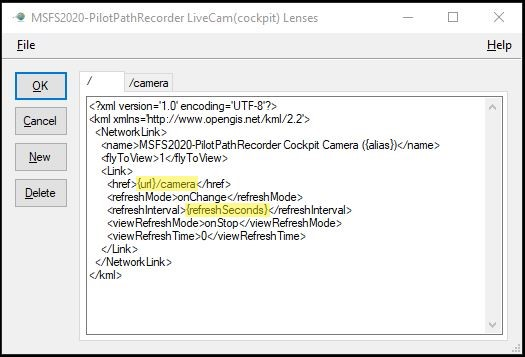
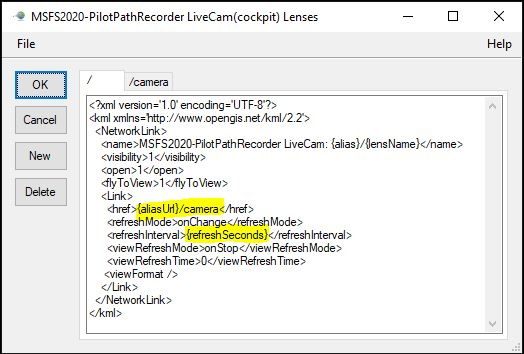
Updated parameter name on 'cockpit' LiveCam

diff --git a/README-kmlcam.md b/README-kmlcam.md
@@ -2,11 +2,12 @@
 
 ## Description
 
-A metaphor of a "Live Camera" (LiveCam) is used to describe a feature enabling real-time display
+A metaphor of a "Live Camera" (aka LiveCam) is used to describe a feature enabling real-time display
 in Google Earth of a simulated flight.  Read below for details about this feature.
 
 You can configure a [KML Network Link] to periodically "call back" to MSFS2020-PilotPathRecorder in order
-to synchronize Google Earth's view with the simulator's view, in "real-time", using a [KML Camera].
+to synchronize Google Earth's view with the simulator's view, in "real-time", using a [KML Camera]
+or other KML markup.
 
 In addition to using and/or extending the built-in LiveCams, it's possible to create your own using a
 specialized, provided editor to define "Lens" (another metaphor) templates used to periodically generate
@@ -37,18 +38,19 @@ located just to the right of the check box.
 
 #### Anatomy of a Network Link URL
 
-The following notations are used to reference the various URLs associated with LiveCams:
+The following notations are used to reference the various types of URLs associated with
+LiveCams:
 
-- _\{listenerUrl\}_ - the base URL endpoint exposed by the internal web server
-  - the default is `http://localhost:8000`, but can be changed in the dialog, if needed
-- _\{liveCamUrl\}_ - the same as _\{listenerUrl\}_`/kmlcam`
-- _\{aliasUrl\}_ - the same as _\{liveCamUrl\}_`/`_\{alias\}_
-- _\{lensUrl\}_ - the same as _\{aliasUrl\}_`/`_\{lens\}_
-- _\{query\}_ - the set of URL "query" parameters associated with any of the above 
+- ***\{listenerUrl\}*** - the base URL endpoint exposed by the internal web server
+  - the default is **`http://localhost:8000`**, but can be changed in the dialog, if needed
+- ***\{liveCamUrl\}*** - the same as ***\{listenerUrl\}*****`/kmlcam`**
+- ***\{aliasUrl\}*** - the same as ***\{liveCamUrl\}*****`/`*****\{alias\}***
+- ***\{lensUrl\}*** - the same as ***\{aliasUrl\}*****`/`*****\{lens\}***
+- ***\{query\}*** - the set of URL "query" parameters associated with any of the above 
 
 Where:
-- _\{alias\}_ is the name of the LiveCam; if not specified, it's the empty string (i.e., "")
-- _\{lens\}_ names a specific KML generator for the LiveCam; if not specified, it's the
+- ***\{alias\}*** is the name of the LiveCam; if not specified, it's the empty string (i.e., "")
+- ***\{lens\}*** names a specific KML generator for the LiveCam; if not specified, it's the
   empty string.  A LiveCam may use one or more "Lenses" in order to accomplish its goals.
 
 Notes:
@@ -68,8 +70,8 @@ you might see (with added highlighting of substitution tokens):
 Each tab corresponds to a "Lens Template" used to generate the needed KML to be delivered to Google Earth
 (tabs are named with a slash followed by the name of the Lens).  Lens templates reference one-another
 through KML Network Link URLs they emit, as needed to accomplish their desired effect.  For example,
-in the example template shown above, see how the "/" (initial) template references the "/camera"
-Lens template, which is then called periodically by Google Earth.
+in the example template shown above, see how the `/` (initial link) template references the `/camera`
+Lens template, which is then called periodically by Google Earth, according to `refreshMode`.
 
 The set of values describing the real-time state of the simulated flight (such as airplane position,
 heading, speed, bank angle, etc.) can be referenced by templates, albeit a bit differently depending
